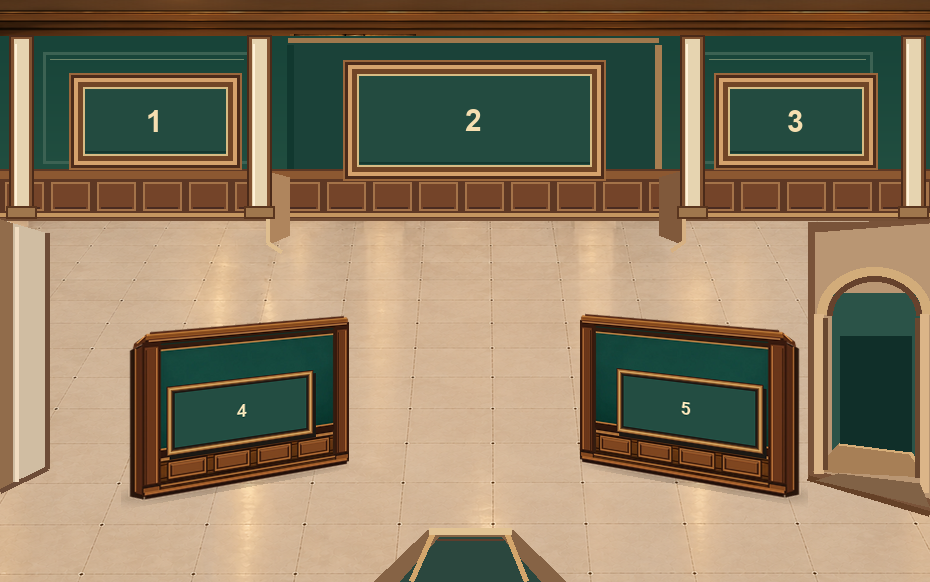
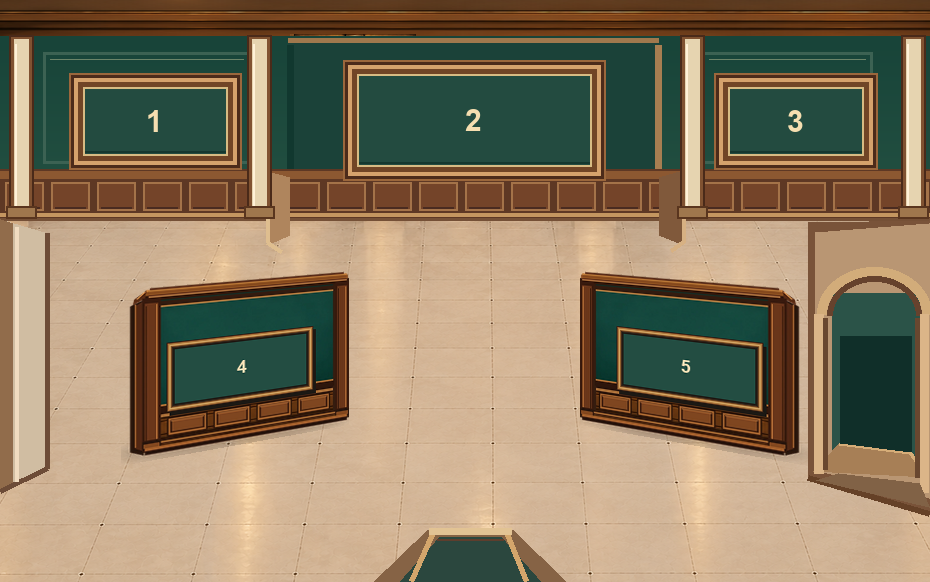
feat: approve gallery3 G positions

Changed region(s): [[0.1247, 0.4639, 0.3742, 0.866], [0.6237, 0.4639, 0.8731, 0.866]]

diff --git a/qa/gallery3_angle_G.py b/qa/gallery3_angle_G.py
@@ -14,7 +14,7 @@ e_arch=f/"gallery3_architecture_only_E.png"
 sha_e=hashlib.sha256(e_arch.read_bytes()).hexdigest()
 config=f/"room.json"
 room=json.loads(config.read_text(encoding="utf-8"))
-assert room["id"]=="gallery3" and room["layoutRevision"] in ("gallery3-E-architecture-approved-F-five-frames-unapproved-20261029","gallery3-E-approved-G-hachi-proposal-20261029")
+assert room["id"]=="gallery3" and room["layoutRevision"] in ("gallery3-E-architecture-approved-F-five-frames-unapproved-20261029","gallery3-E-approved-G-hachi-proposal-20261029","gallery3-G-approved-user-positions-20261029")
 assert sorted(o["id"] for o in room["objects"])==["wall4","wall5"]
 # Snapshot F's coordinates/layout in JSON before switching editor to the proposed G.
 f_ref=f/"room_F_reference.json"
@@ -60,8 +60,8 @@ left=perspective_wall(f/"wall4.png",f/"wall4_angle_G.png",
 right=perspective_wall(f/"wall5.png",f/"wall5_angle_G.png",
                        [(2,1),(230,20),(230,196),(2,155)])
 items=[
- ("wall4","独立展示壁④／ハの字左",119,314,width,height,"wall4_angle_G.png"),
- ("wall5","独立展示壁⑤／ハの字右",578,312,width,height,"wall5_angle_G.png")
+ ("wall4","独立展示壁④／ハの字左",119,270,width,height,"wall4_angle_G.png"),
+ ("wall5","独立展示壁⑤／ハの字右",578,270,width,height,"wall5_angle_G.png")
 ]
 for _,_,x,y,w,h,_ in items:assert x>=0 and y>=0 and x+w<930 and y+h<582
 # South entrance ground threshold is centered x~470 near lower edge.
@@ -90,9 +90,9 @@ room.update({
  "objects":[{"id":n,"label":label,"image":f"rooms/gallery3/{filename}",
              "rect":{"x":x,"y":y,"w":w,"h":h}}
             for n,label,x,y,w,h,filename in items],
- "subtitle":"G比較案：奥の②を拡大＋展示壁④⑤をハの字（未承認）",
- "layoutRevision":"gallery3-E-approved-G-hachi-proposal-20261029",
- "status":"E architectural outline approved, G frame sizes/angles unapproved",
+ "subtitle":"G採用配置：奥の②を拡大＋展示壁④⑤をハの字（座標確定）",
+ "layoutRevision":"gallery3-G-approved-user-positions-20261029",
+ "status":"G visual layout approved; game integration pending",
  "notes":"E architectural base remains preserved unchanged. Rear 1&3 unchanged. Rear 2 enlarged 200x100 =>252x110; movable 4&5 perspective-distorted as dedicated images, no geometric rotation applied to a flat rectangle. Walkability, wall footprints, layer sorting and staff placement pending QA.",
 })
 config.write_text(json.dumps(room,ensure_ascii=False,indent=2)+"\n",encoding="utf-8")

diff --git a/qa/check_gallery3_live.py b/qa/check_gallery3_live.py
@@ -19,11 +19,11 @@ try:
    assert res.status==200
    page.wait_for_function('window.__A18_LAYOUT_EDITOR__ && window.__A18_LAYOUT_EDITOR__.getState().roomId === "gallery3"')
    state=page.evaluate('window.__A18_LAYOUT_EDITOR__.getState()')
-   # G proposal: 3 fixed rear frames (2 enlarged) + 2 perspective-skewed movable walls.
+   # G approved layout: 3 fixed rear frames (2 enlarged) + 2 perspective-skewed movable walls.
    assert len(state['objects'])==2,state
    assert set(state['objects'])=={'wall4','wall5'},state
-   assert state['objects']['wall4']=={'x':119,'y':314,'w':232,'h':198},state
-   assert state['objects']['wall5']=={'x':578,'y':312,'w':232,'h':198},state
+   assert state['objects']['wall4']=={'x':119,'y':270,'w':232,'h':198},state
+   assert state['objects']['wall5']=={'x':578,'y':270,'w':232,'h':198},state
    assert state['roomId']=='gallery3',state
    assert page.locator('#zoom').input_value()==('.35' if width==390 else '.8')
    assert all(e.evaluate('e=>e.complete && e.naturalWidth>0') for e in page.locator('#stage img').all())

diff --git a/rooms/gallery3/LAYOUT_APPROVAL_20261029.md b/rooms/gallery3/LAYOUT_APPROVAL_20261029.md
@@ -1,0 +1,21 @@
+# A18 展示室3｜G案レイアウト承認記録（2026-10-29）
+
+## ユーザー承認
+ユーザーが「うん、G案で以下でいこうか！」として、`a18-gallery-layout-preview/v2` の配置JSONを指定。**建築E案＋拡大した中央②＋ハの字独立展示壁④⑤を、展示室3の採用レイアウト案とする。**
+
+基準キャンバス：930 × 582 px／roomId：gallery3（ゲーム内部roomIdは3、変更しない）。
+
+| ID | X | Y | 幅 | 高さ |
+|---|---:|---:|---:|---:|
+| wall4 | 119 | 270 | 232 | 198 |
+| wall5 | 578 | 270 | 232 | 198 |
+
+- 上記2つの独立展示壁はいずれも同じY=270。指定数値を正として無断補正しない。
+- 展示枠の総数は5。奥壁の①②③はG案から変更しない。②の拡大サイズは252×110。
+- 建築Eの凹み・南中央入口・東側出口・西北の壁、現行の独立壁用斜めパース素材を維持する。
+- 比較検討のF案、G案の旧座標は過去記録として残すが、**今後の実装用基準は今回の指定座標**とする。
+- `room.json`、`qa/gallery3_angle_G.py`、`qa/check_gallery3_live.py` を一致させる。
+- 承認範囲は**建築・展示枠のレイアウト案**のみ。作品展示/調べる判定、歩行・衝突、スタッフ位置、前後レイヤー、ゲーム本体への移植は未実装・未検証。
+
+## Git・公開境界
+`a18-gallery-layout-editor` の既存 `work/a18-gallery-layout-preview-20261028` で保全。issue/mainへは明示指示なくマージしない。監修Webプレビューはゲーム本体の公開と区別する。
